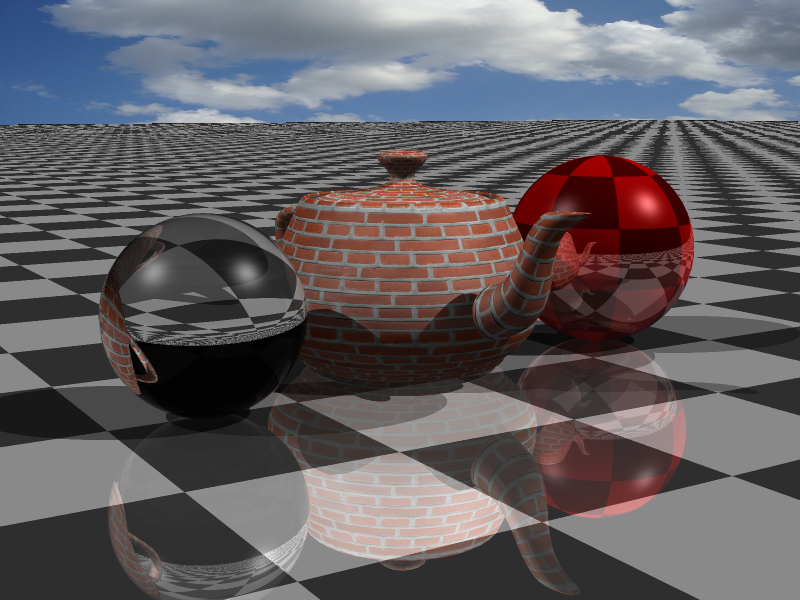
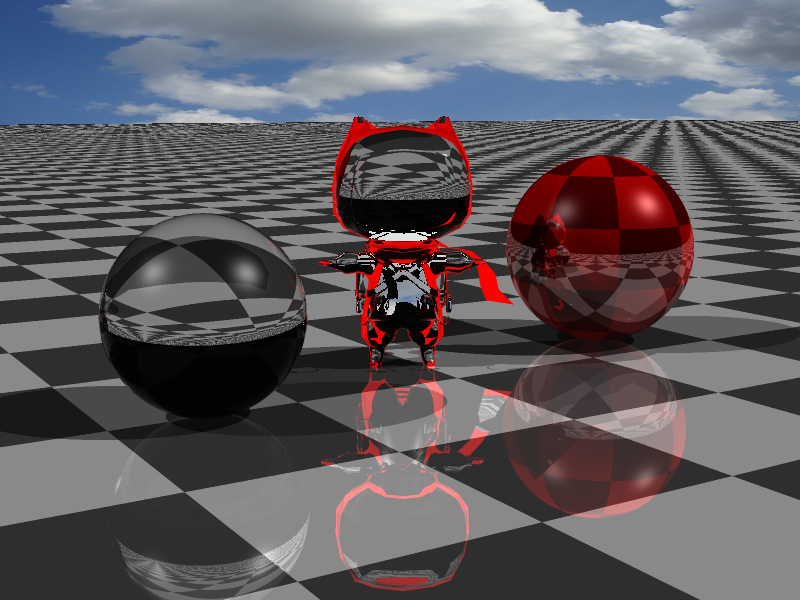
save

diff --git a/RayTracingRenderer/RayTracingRenderer/RayTracingRenderer.cpp b/RayTracingRenderer/RayTracingRenderer/RayTracingRenderer.cpp
@@ -24,7 +24,7 @@ TexturedColor background;
 TexturedColor environment;
 TextureList textureList;
 
-#define TIMEOFREFRECTION 5
+#define TIMEOFREFRECTION 2
 #define RAYPERPIXEL 4
 #define SHADOWBIAS 0.0005f
 #define MAXSAMPLECOUNT 8
@@ -34,8 +34,8 @@ TextureList textureList;
 int main()
 {
 	//LoadScene(".\\xmlfiles\\playground2.xml");
-	//LoadScene(".\\xmlfiles\\catscene.xml");
-	LoadScene(".\\xmlfiles\\assignment6.xml");
+	LoadScene(".\\xmlfiles\\catscene.xml");
+	//LoadScene(".\\xmlfiles\\assignment6.xml");
 	ShowViewport();
 }
 
@@ -162,6 +162,11 @@ Color AdaptiveSampling(Ray ray, float radiusrate, Vec3f xaxis, Vec3f yaxis, Node
 	return answercolor / RAYPERPIXEL;
 }
 
+void SamplingForDepthOfField()
+{
+
+}
+
 void BeginRender() {
 
 	time_t time0;   // create timers.
@@ -178,7 +183,7 @@ void BeginRender() {
 	Color24* pixels = renderImage.GetPixels();
 	Ray * cameraray = new Ray[renderImage.GetHeight() * renderImage.GetWidth()];
 
-	float l = 1.0f;
+	float l = camera.focaldist;
 	float h = 2 * l * tanf((camera.fov / 2) * 3.14f / 180);
 	float w = camera.imgWidth * (h / camera.imgHeight);
 
@@ -209,6 +214,11 @@ void BeginRender() {
 			//hit.duvw[1] = (h / H) * y;
 
 			pixels[i * renderImage.GetWidth() + j] = (Color24)AdaptiveSampling(cameraray[i * renderImage.GetWidth() + j], 0.25f, (w / W)*x, (h / H)*y, startnode, node, zbuffers[i * renderImage.GetWidth() + j], cameraray[i * renderImage.GetWidth() + j], samplecount[i * renderImage.GetWidth() + j]);
+
+			if (isnan((float)pixels[i * renderImage.GetWidth() + j].r)) printf("There is NAN");
+			if (isnan((float)pixels[i * renderImage.GetWidth() + j].g)) printf("There is NAN");
+			if (isnan((float)pixels[i * renderImage.GetWidth() + j].b)) printf("There is NAN");
+
 			if (pixels[i * renderImage.GetWidth() + j] == (Color24)Color(0, 0, 0))
 			{
 				Vec3f v((float)j / renderImage.GetWidth(), (float)i / renderImage.GetHeight(), 0.0f);
@@ -404,7 +414,7 @@ Color Refraction(Ray const & ray, const HitInfo & hInfo, int bounce, float refra
 		// Total internal reflection
 		if (sin2 > 1)
 		{
-			return Color(0, 0, 0);
+			return Color(1, 0, 0);
 			//return Color(1, 1, 1);
 
 			//T_h = -cos2 * N;
